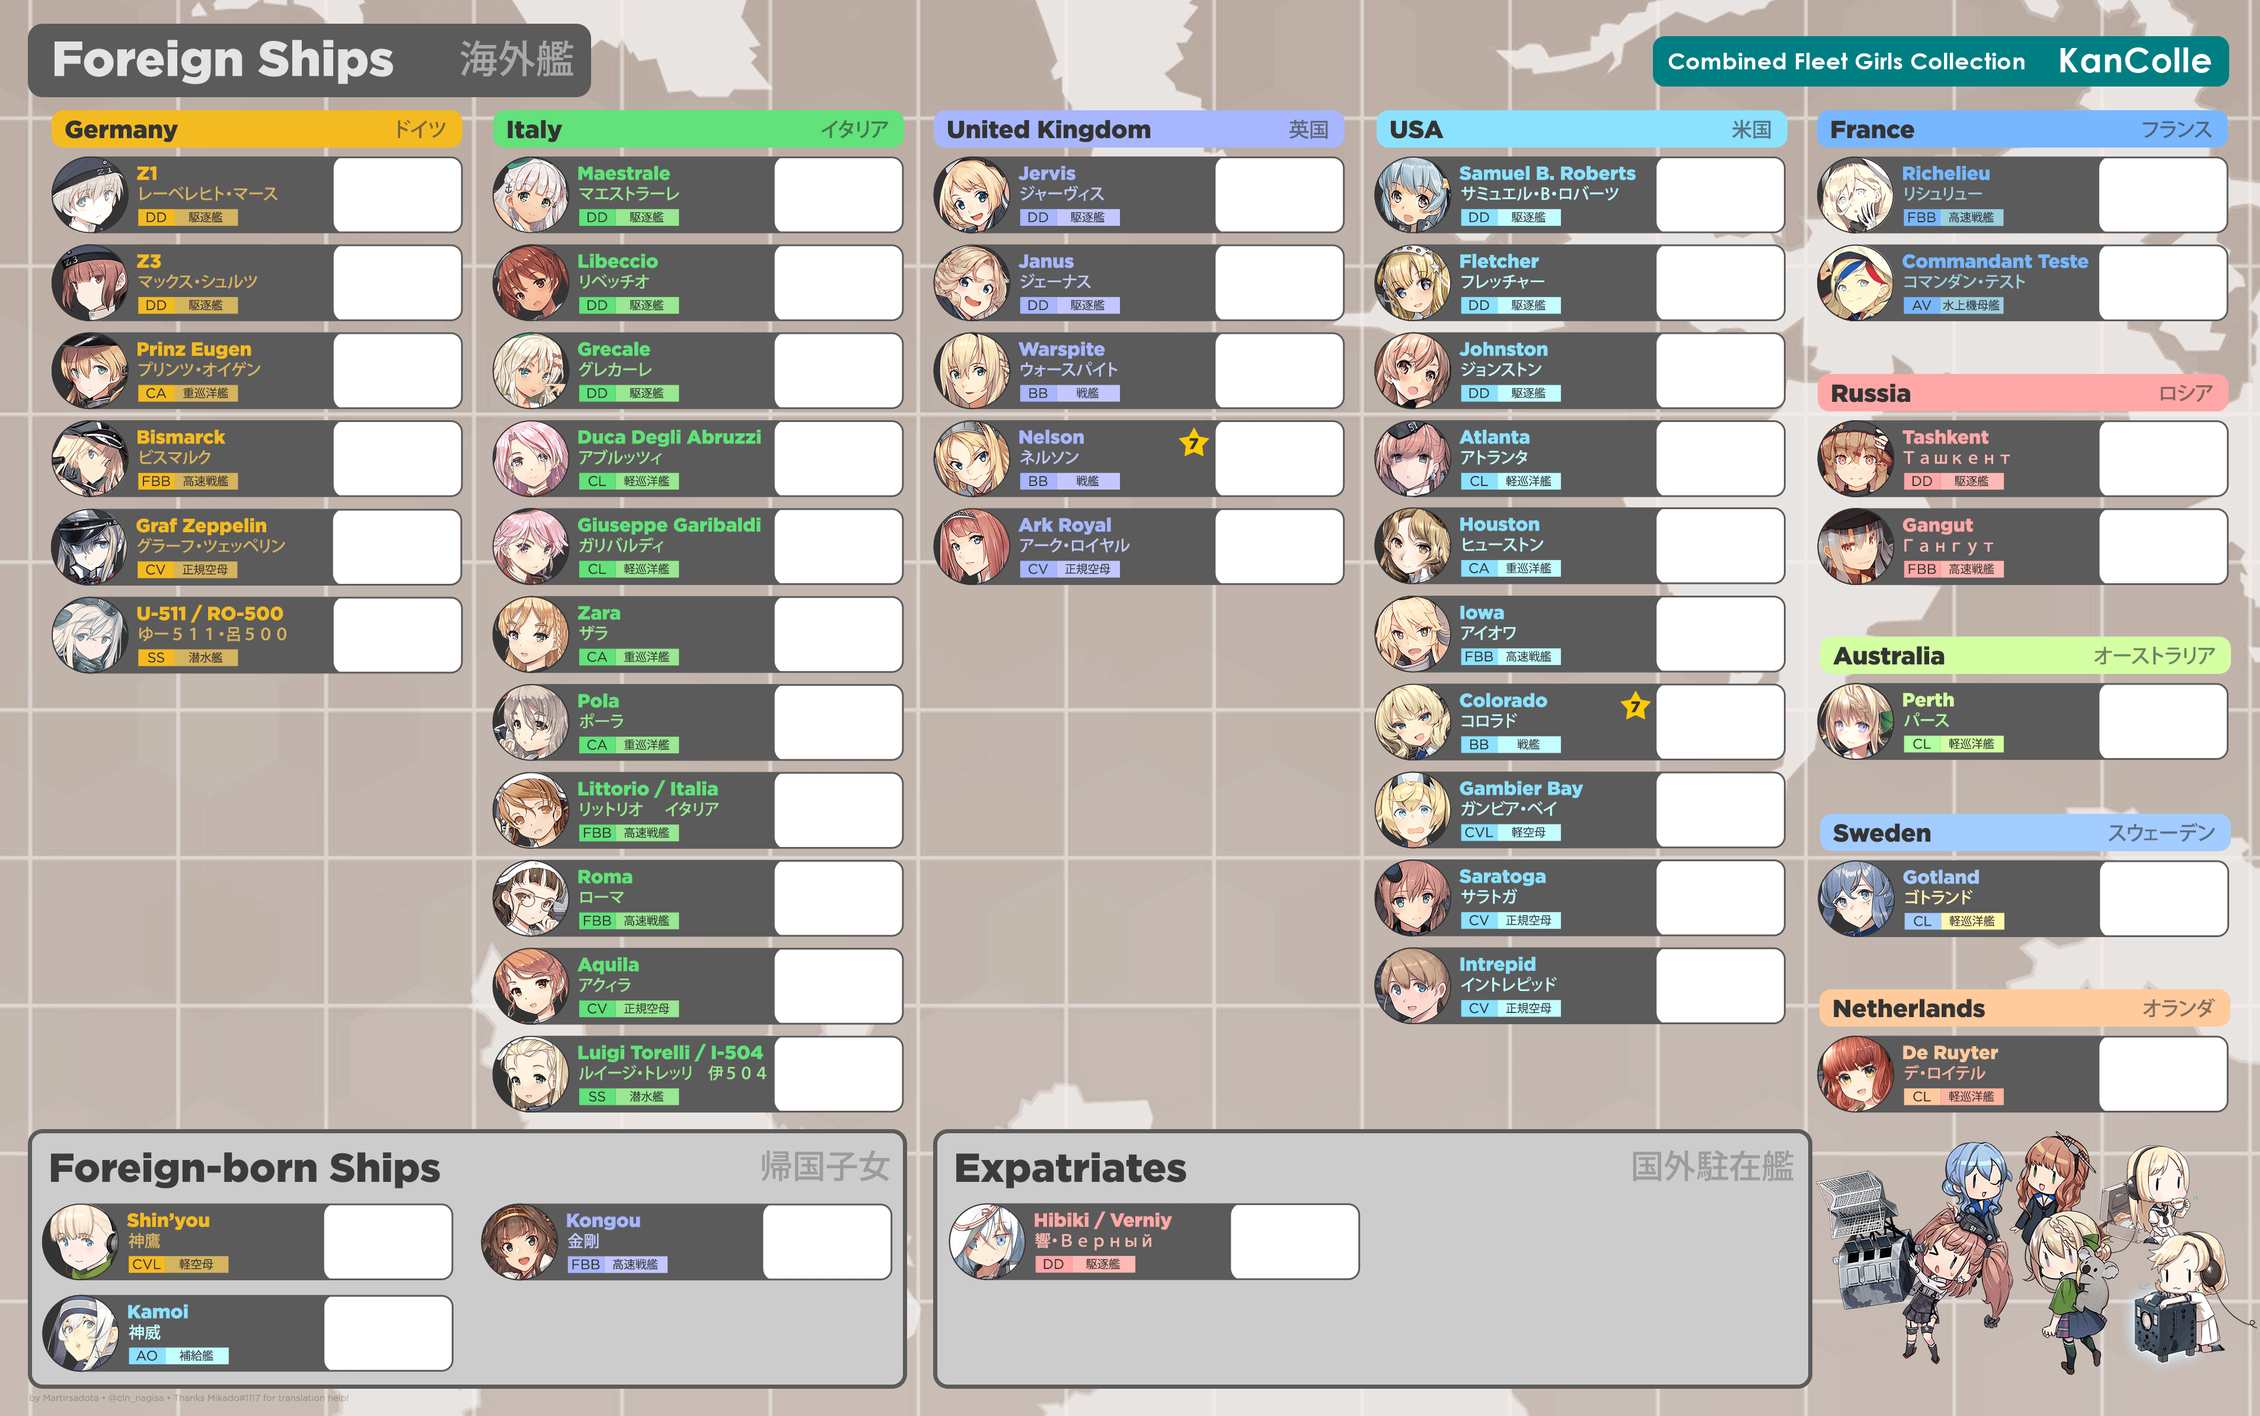
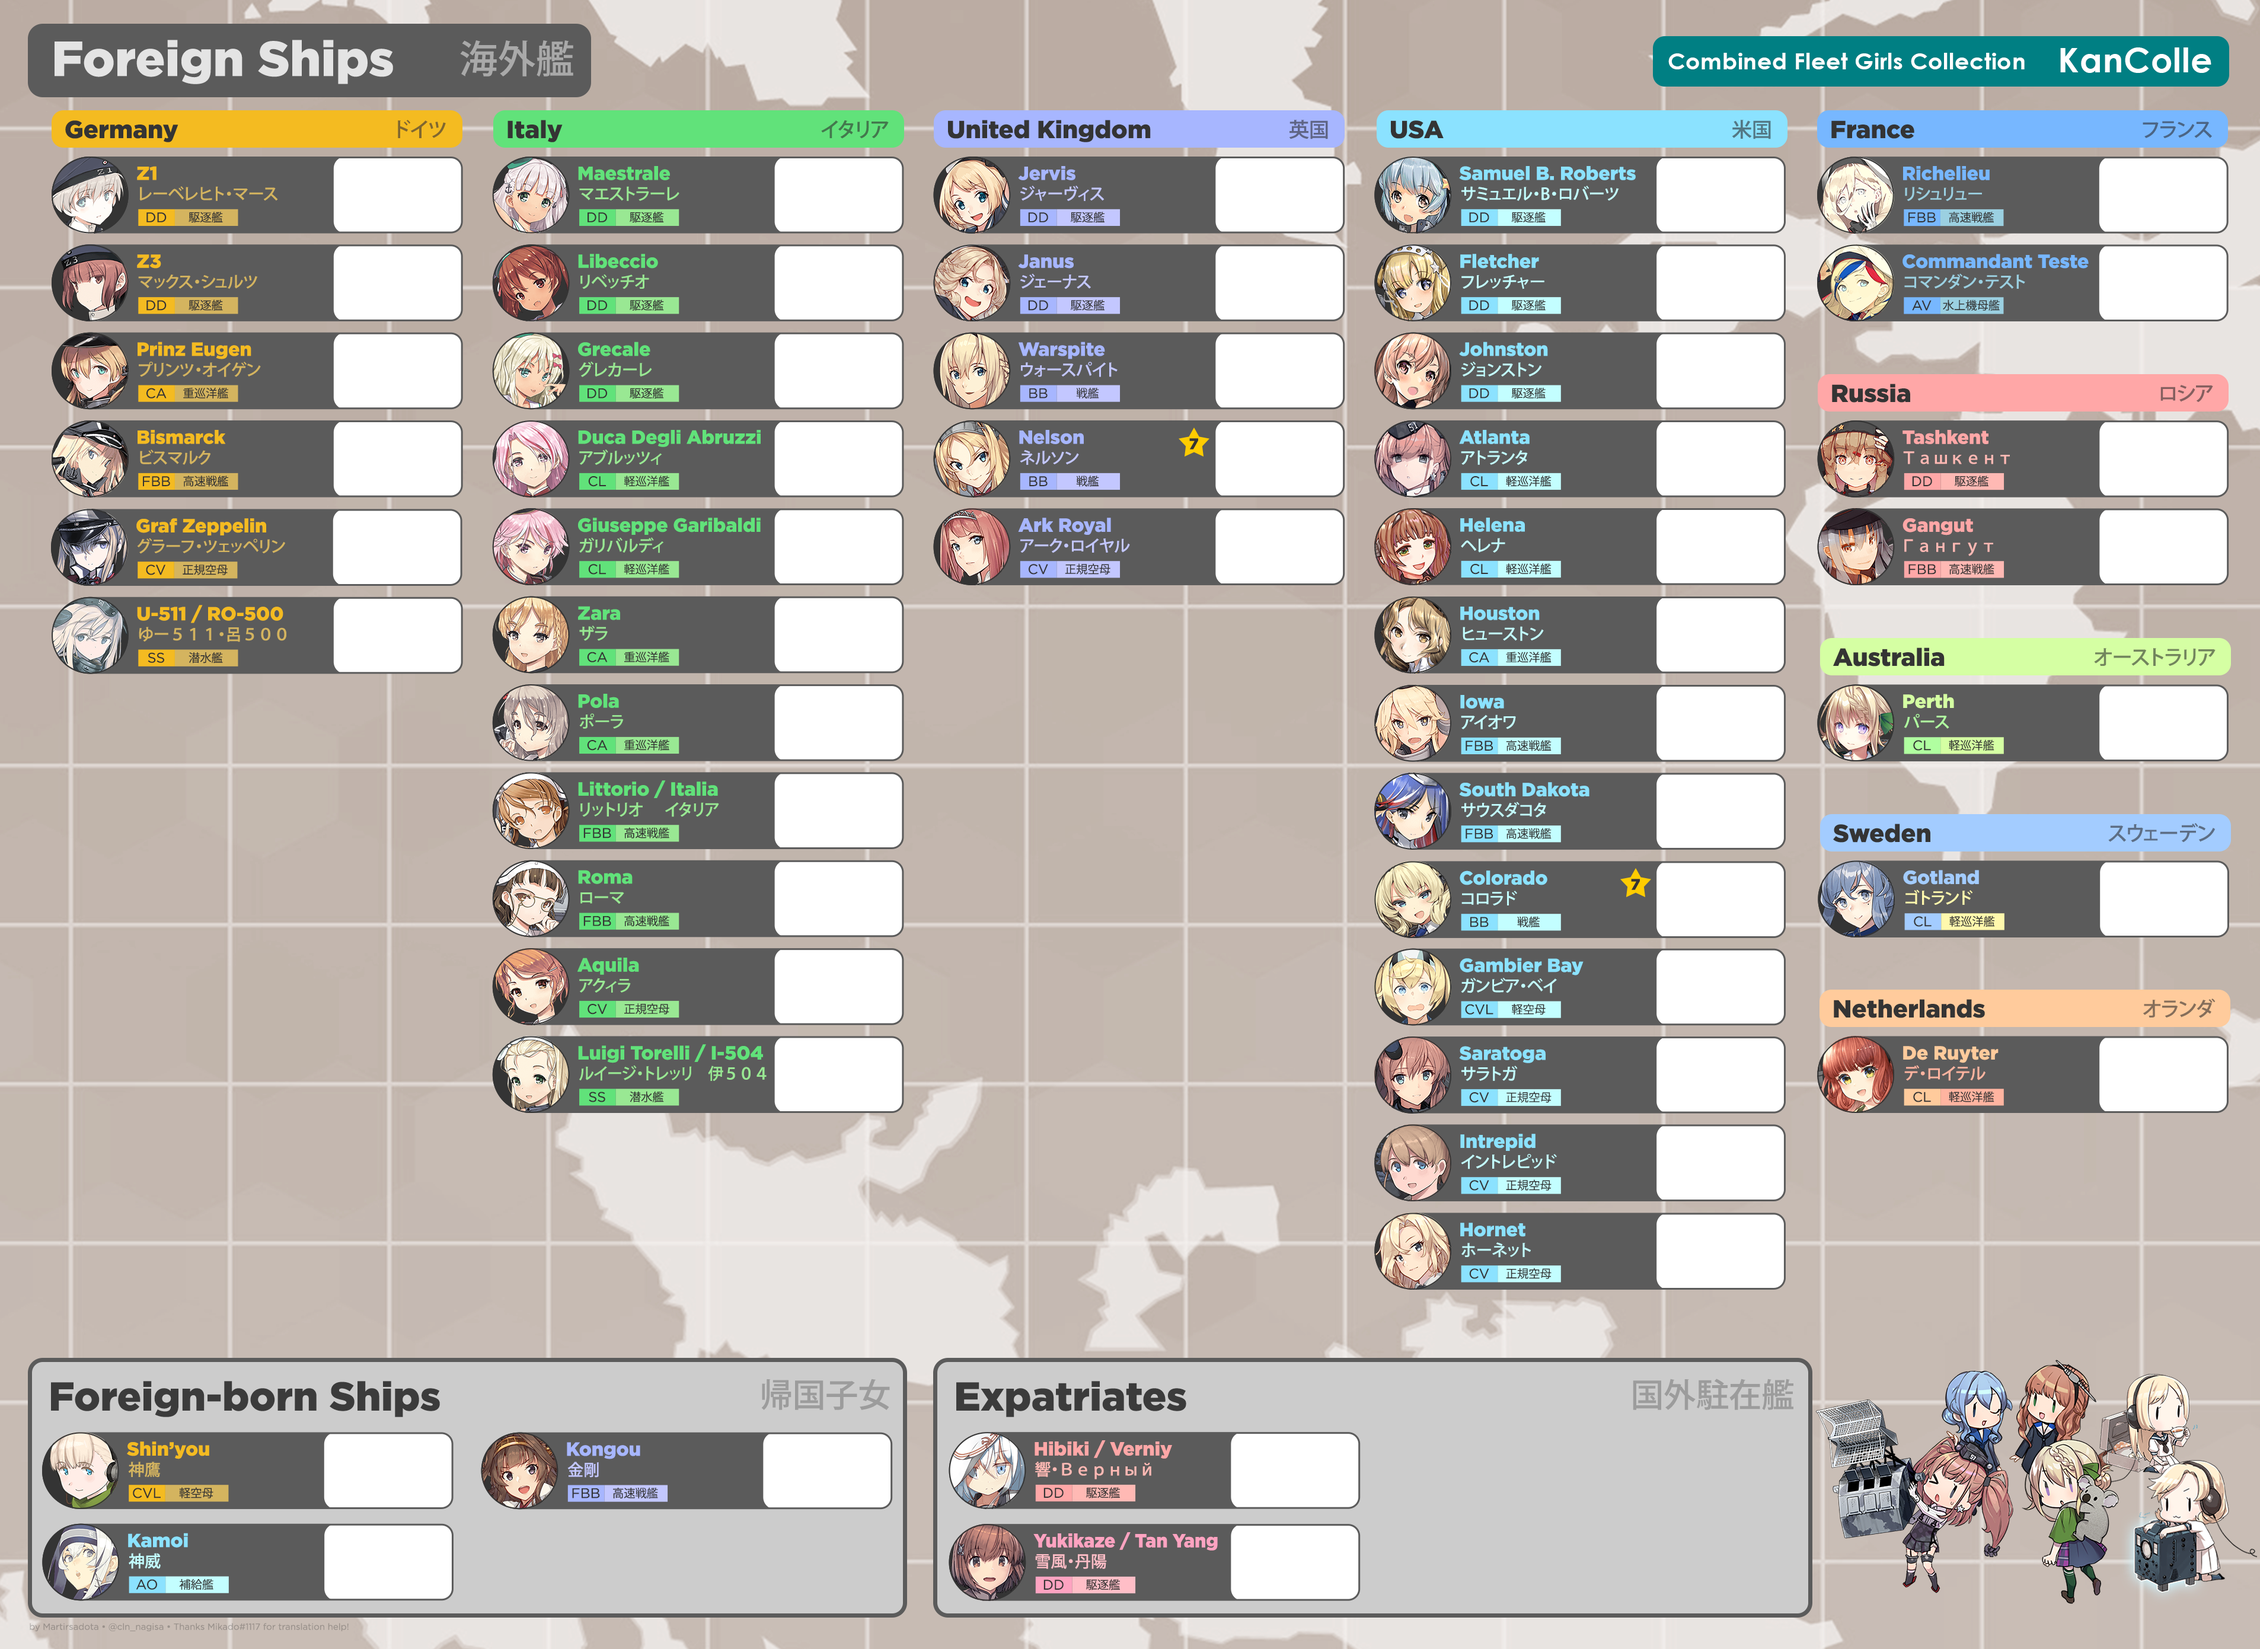
Update foreigner chart

diff --git a/ShowcaseEventList.js b/ShowcaseEventList.js
@@ -788,12 +788,15 @@
                 {"x": 672+744*3, "y": 347+148.5* 1, "id": 596}, // Fletcher
                 {"x": 672+744*3, "y": 347+148.5* 2, "id": 562}, // Johnston
                 {"x": 672+744*3, "y": 347+148.5* 3, "id": 597}, // Atlanta
-                {"x": 672+744*3, "y": 347+148.5* 4, "id": 595}, // Houston
-                {"x": 672+744*3, "y": 347+148.5* 5, "id": 440}, // Iowa
-                {"x": 672+744*3, "y": 347+148.5* 6, "id": 601}, // Colorado
-                {"x": 672+744*3, "y": 347+148.5* 7, "id": 544}, // Gambier Bay
-                {"x": 672+744*3, "y": 347+148.5* 8, "id": 433}, // Saratoga
-                {"x": 672+744*3, "y": 347+148.5* 9, "id": 549}, // Intrepid
+                {"x": 672+744*3, "y": 347+148.5* 4, "id": 615}, // Helena
+                {"x": 672+744*3, "y": 347+148.5* 5, "id": 595}, // Houston
+                {"x": 672+744*3, "y": 347+148.5* 6, "id": 440}, // Iowa
+                {"x": 672+744*3, "y": 347+148.5* 7, "id": 602}, // South Dakota
+                {"x": 672+744*3, "y": 347+148.5* 8, "id": 601}, // Colorado
+                {"x": 672+744*3, "y": 347+148.5* 9, "id": 544}, // Gambier Bay
+                {"x": 672+744*3, "y": 347+148.5*10, "id": 433}, // Saratoga
+                {"x": 672+744*3, "y": 347+148.5*11, "id": 549}, // Intrepid
+                {"x": 672+744*3, "y": 347+148.5*12, "id": 603}, // Hornet
 
                 {"x": 672+744*4, "y": 347+148.5* 0, "id": 492}, // Richelieu
                 {"x": 672+744*4, "y": 347+148.5* 1, "id": 491}, // Comdt. Teste
@@ -807,11 +810,12 @@
 
                 {"x": 672+744*4, "y": 347+148.5*10, "id": 604}, // De Ruyter
 
-                {"x": 654+744*0, "y": 2112+154*  0, "id": 534}, // Shinyou
-                {"x": 654+744*0, "y": 2112+154*  1, "id": 162}, // Kamoi
-                {"x": 654+744*1, "y": 2112+154*  0, "id":  78}, // Kongou
+                {"x": 654+744*0, "y": 2495+154*  0, "id": 534}, // Shinyou
+                {"x": 654+744*0, "y": 2495+154*  1, "id": 162}, // Kamoi
+                {"x": 654+744*1, "y": 2495+154*  0, "id":  78}, // Kongou
 
-                {"x":      2183, "y": 2112+154*  0, "id":  35}  // Hibiki
+                {"x":      2183, "y": 2495+154*  0, "id":  35}, // Hibiki
+                {"x":      2183, "y": 2495+154*  1, "id":  20}  // Yukikaze
             ],
         },
         "europeanShips": {

diff --git a/eventlist.html b/eventlist.html
@@ -37,10 +37,10 @@
             <label><a href="http://kancolle-calc.net/kanmusu_list.html">kanmusu list</a>: <input id="kanmusulist" onchange="update()" placeholder=".2|1:[...]"></input></label><br>
             <label>Template: 
                 <select id="eventConfigTemplate" onchange="update();">
-                    <option selected value="2020summer-nishikuma">Summer 2020 - nishikuma</option>
+                    <option value="2020summer-nishikuma">Summer 2020 - nishikuma</option>
                     <option value="2020summer-martirsadota">Summer 2020 - martirsadota</option>
                     <option value="2020summer-lovecoal0928">Summer 2020 - lovecoal0928</option>
-                    <option value="foreignShips">Foreign ships</option>
+                    <option selected value="foreignShips">Foreign ships</option>
                     <option value="2019fall-nishikuma">Fall 2019 - Nishikuma</option>
                     <option value="2019spring-lovecoal0928">Spring 2019 - lovecoal0928</option>
                     <option value="2018winter2-nicohatealpha">End of Year 2018 - nicohatealpha</option>
